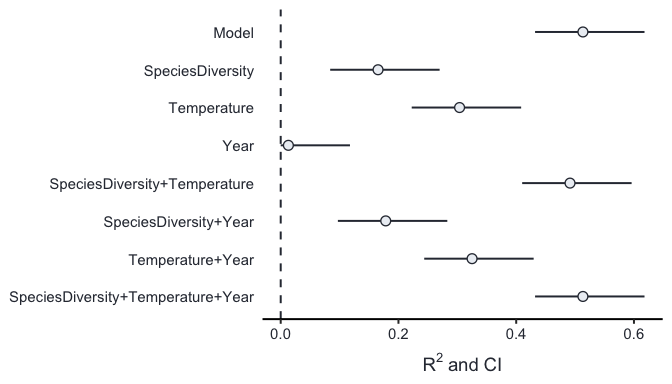
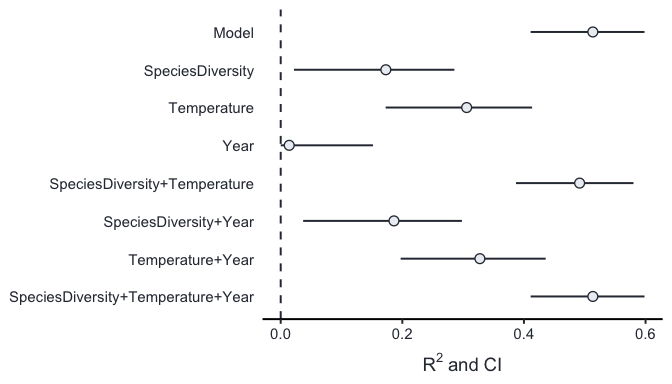
release prep

diff --git a/README.md b/README.md
@@ -12,15 +12,15 @@ coverage](https://codecov.io/gh/mastoffel/partR2/branch/master/graph/badge.svg)]
 
 # partR2
 
-The goal of partR2 is to estimate R<sup>2</sup> in GLMMs (sensu Nakagawa
-& Schielzeth 2013) and to partition the R<sup>2</sup> into the variance
-explained by the predictors.
+The goal of `partR2` is to estimate R<sup>2</sup> in GLMMs (sensu
+Nakagawa & Schielzeth 2013) and to partition the R<sup>2</sup> into the
+variance explained by the predictors.
 
 The package takes a fitted lme4 model as input and gives you:
 
   - R<sup>2</sup> (marginal or conditional)
-  - Semi-partial R<sup>2</sup>, the variance explained uniquely by each
-    predictor and combinations of predictors
+  - Part (semi-partial) R<sup>2</sup>, the variance explained uniquely
+    by each predictor and combinations of predictors
   - Inclusive R<sup>2</sup>, the variance explained by a predictor
     independent of all other predictors
   - Structure coefficients, the correlation between a predictor and the
@@ -30,12 +30,12 @@ The package takes a fitted lme4 model as input and gives you:
 All estimates can be combined with parametric bootstrapping to get
 confidence intervals.
 
-partR2 is in an early phase of development and despite a lot of testing
-might still contain bugs, so be careful and thoughtful when using it.
+`partR2` is still in an early phase of development and might contain
+bugs.
 
 ## Installation
 
-You can install partR2 from github with:
+You can install the development version of `partR2` from GitHub with:
 
 ``` r
 # install.packages("remotes")
@@ -66,7 +66,7 @@ mod <- lmer(Biomass ~  Year + Temperature + SpeciesDiversity + (1|Population),
 #> # A tibble: 1 x 5
 #>      R2 CI_lower CI_upper nboot   ndf
 #>   <dbl>    <dbl>    <dbl> <int> <dbl>
-#> 1 0.513    0.432    0.618   100     4
+#> 1 0.513    0.411    0.598   100     4
 #> 
 #> ----------
 #> 
@@ -74,14 +74,14 @@ mod <- lmer(Biomass ~  Year + Temperature + SpeciesDiversity + (1|Population),
 #> # A tibble: 8 x 6
 #>   `Predictor(s)`                       R2 CI_lower CI_upper nboot   ndf
 #>   <chr>                             <dbl>    <dbl>    <dbl> <int> <dbl>
-#> 1 Model                             0.513   0.432     0.618   100     4
-#> 2 SpeciesDiversity                  0.165   0.084     0.270   100     3
-#> 3 Temperature                       0.304   0.222     0.408   100     3
-#> 4 Year                              0.013   0         0.118   100     3
-#> 5 SpeciesDiversity+Temperature      0.491   0.410     0.596   100     2
-#> 6 SpeciesDiversity+Year             0.178   0.0971    0.283   100     2
-#> 7 Temperature+Year                  0.325   0.244     0.430   100     2
-#> 8 SpeciesDiversity+Temperature+Year 0.513   0.432     0.618   100     1
+#> 1 Model                             0.513   0.411     0.598   100     4
+#> 2 SpeciesDiversity                  0.173   0.0218    0.286   100     3
+#> 3 Temperature                       0.306   0.173     0.414   100     3
+#> 4 Year                              0.014   0         0.152   100     3
+#> 5 SpeciesDiversity+Temperature      0.492   0.387     0.580   100     2
+#> 6 SpeciesDiversity+Year             0.186   0.0369    0.298   100     2
+#> 7 Temperature+Year                  0.328   0.197     0.436   100     2
+#> 8 SpeciesDiversity+Temperature+Year 0.513   0.411     0.598   100     1
 ```
 
 And to plot the results:
@@ -94,12 +94,10 @@ forestplot(R2, type = "R2", line_size = 0.7, text_size = 14, point_size = 3)
 
 ### Citation
 
-The package is still in development, but will hopefully be uploaded to
-CRAN soon.
-
 When using it, please cite our
 [preprint](https://www.biorxiv.org/content/10.1101/2020.07.26.221168v1.abstract)
-for now:
+for now, and look out for the peer-reviewed paper, which will hopefully
+come out soon.
 
 Stoffel, MA, Nakagawa, S, & Schielzeth, H (2020). partR2: Partitioning
 R2 in generalized linear mixed models. bioRxiv.

diff --git a/cran-comments.md b/cran-comments.md
@@ -1,0 +1,14 @@
+## Test environments
+* local OS X install, R 4.0.3
+* ubuntu 16.04 (on travis-ci), R 4.0.2
+* win-builder (devel and release)
+
+## R CMD check results
+There were no ERRORs or WARNINGs
+
+There was 1 NOTE:
+* checking CRAN incoming feasibility ... NOTE
+Maintainer: 'Martin A. Stoffel <martin.adam.stoffel@gmail.com>'
+
+New submission
+

diff --git a/NEWS.md b/NEWS.md
@@ -1,0 +1,4 @@
+# partR2 0.9.1
+
+* data argument is now optional.
+* part R^2 calculation has been modified. We now estimate the difference in explained variance in the linear predictor and divide this by the estimated total variance from the full model. The results should be very similar, but more stable.
